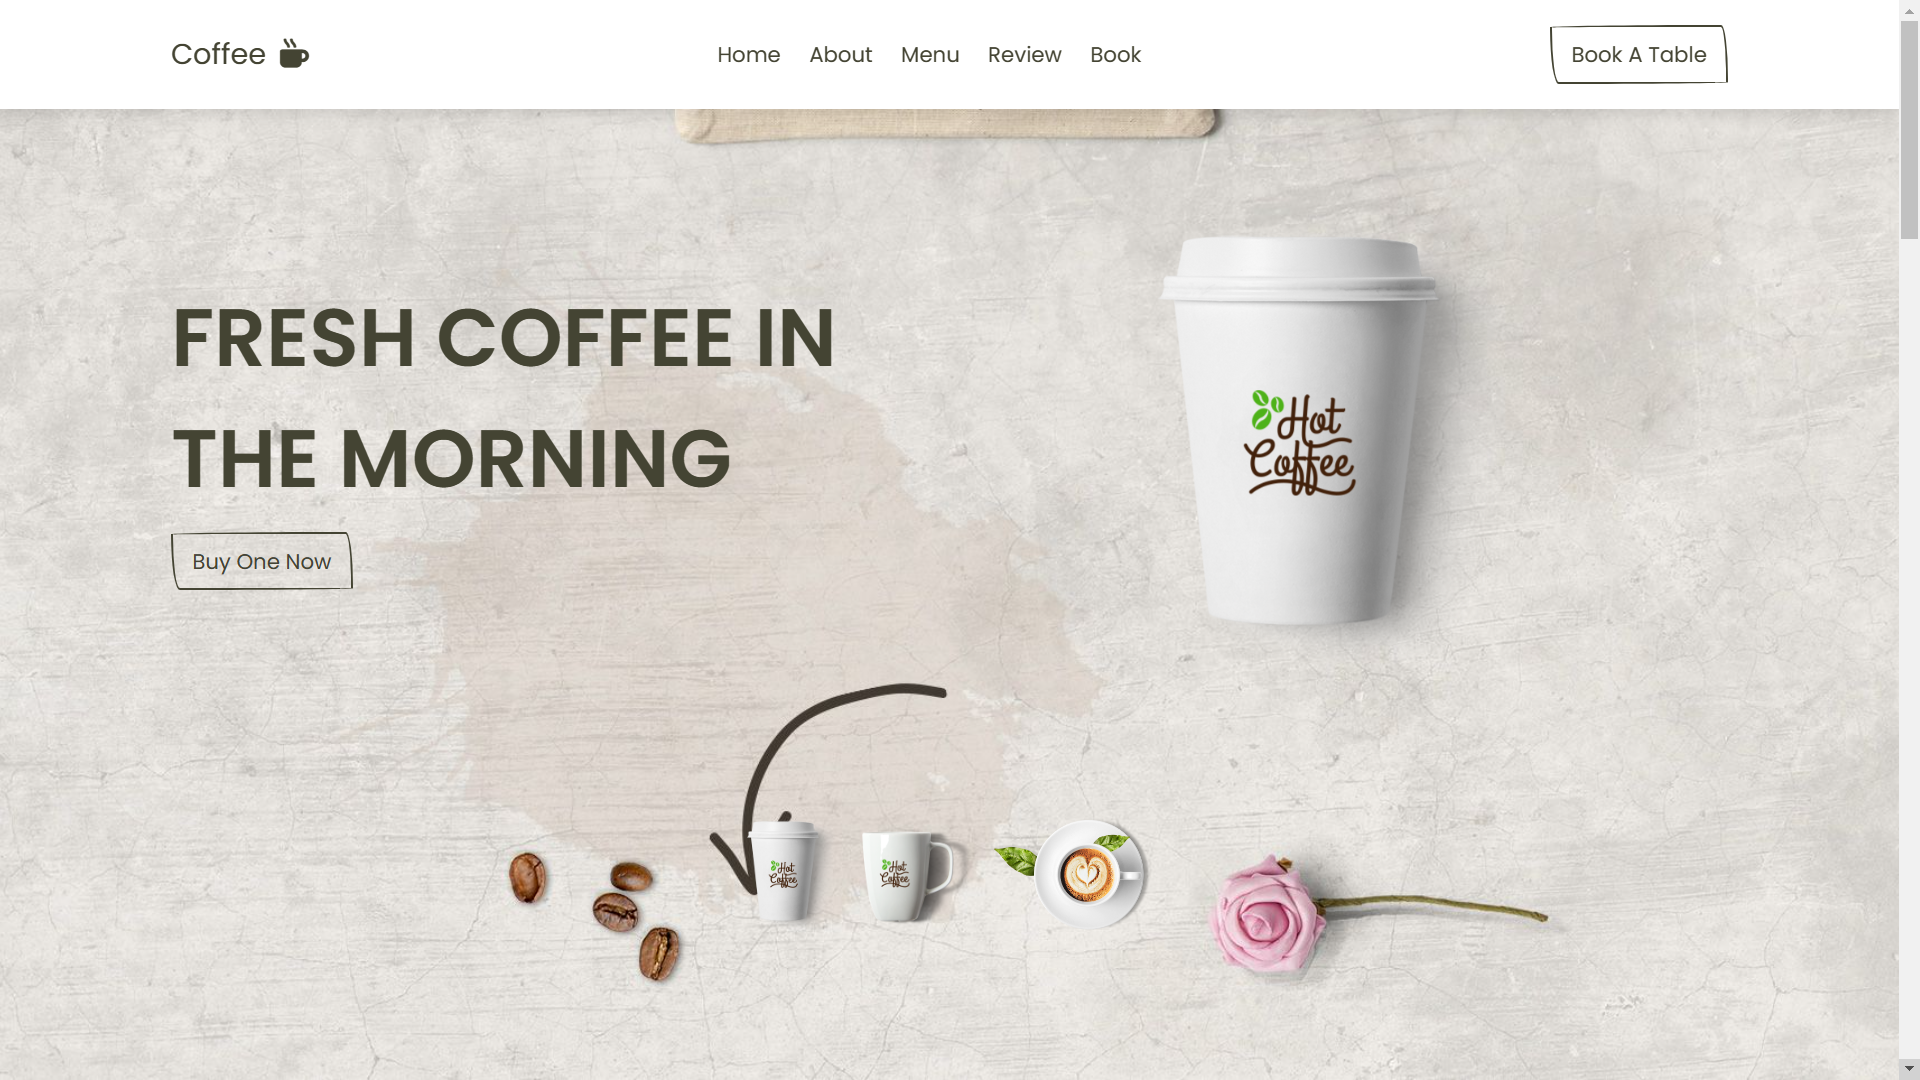
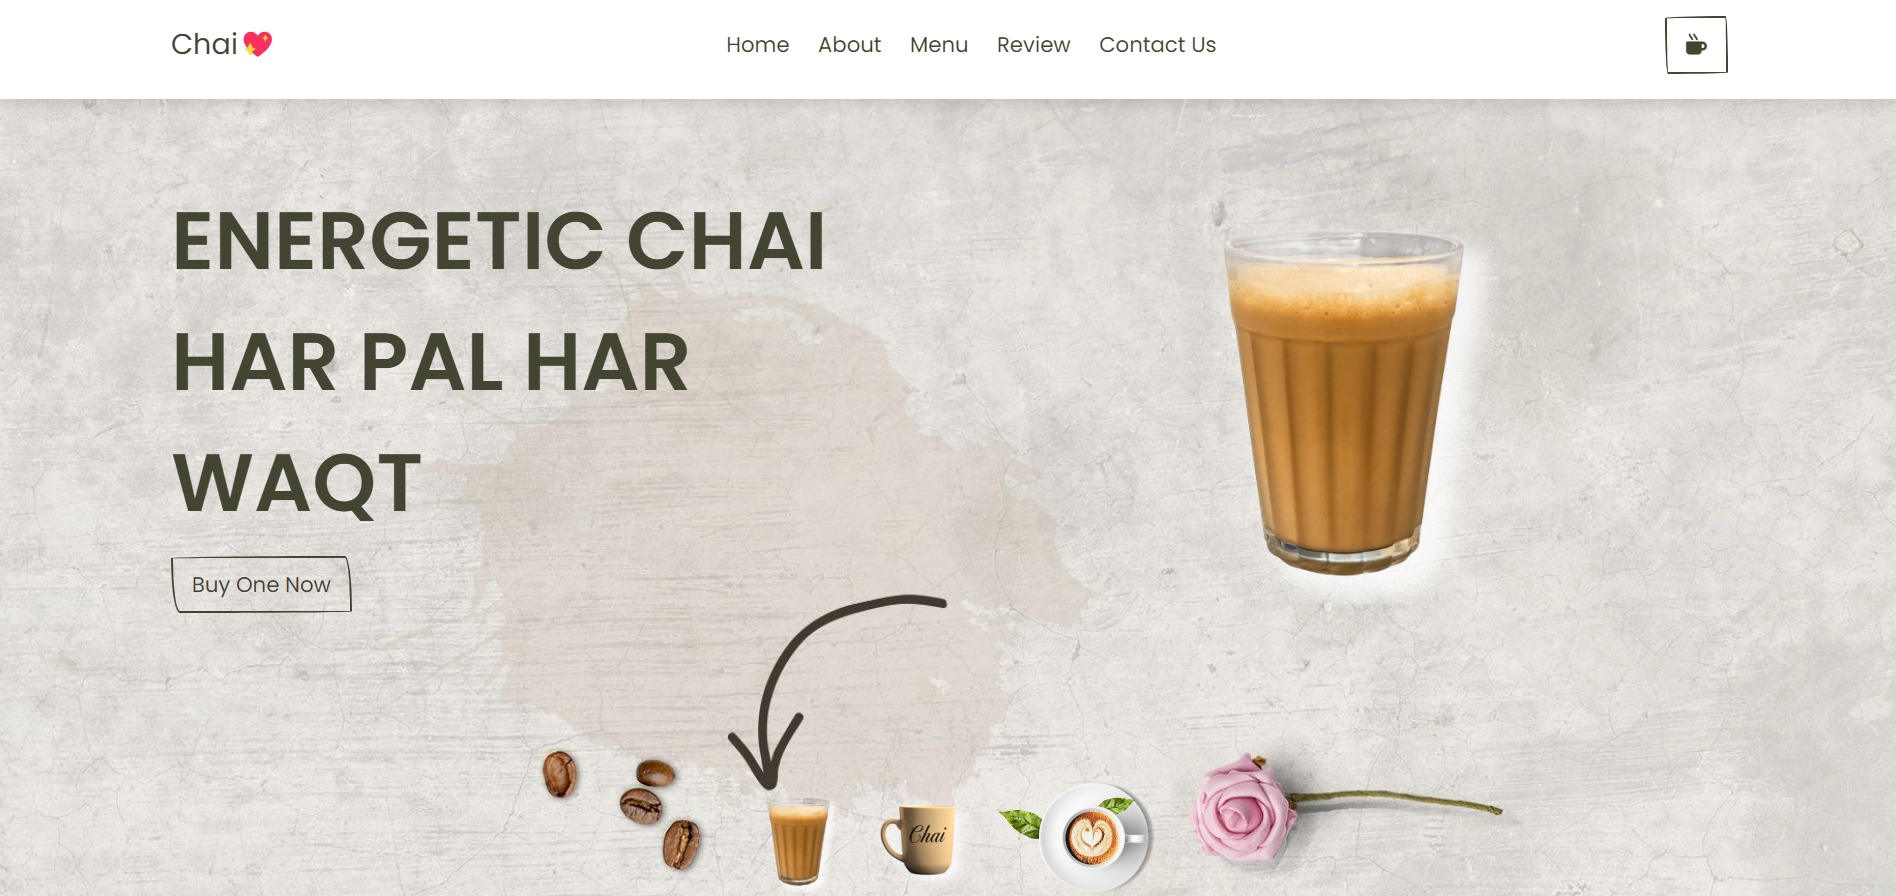
Initial Commit

diff --git a/README.md b/README.md
@@ -1,4 +1,4 @@
-# Responsive Coffee Shop Website Design
-### This design is inspired by the work of [Mr. Web Designer](https://www.youtube.com/@MrWebDesignerAnas). Click [here](https://youtu.be/52sKmRsk7xU) to watch the video.
+# Responsive Chai Shop Website Design
+### This design is inspired by the work of [Bhagwatilal], Check out website and Visit Shop Once.
 
 ![preview img](/preview.png)
